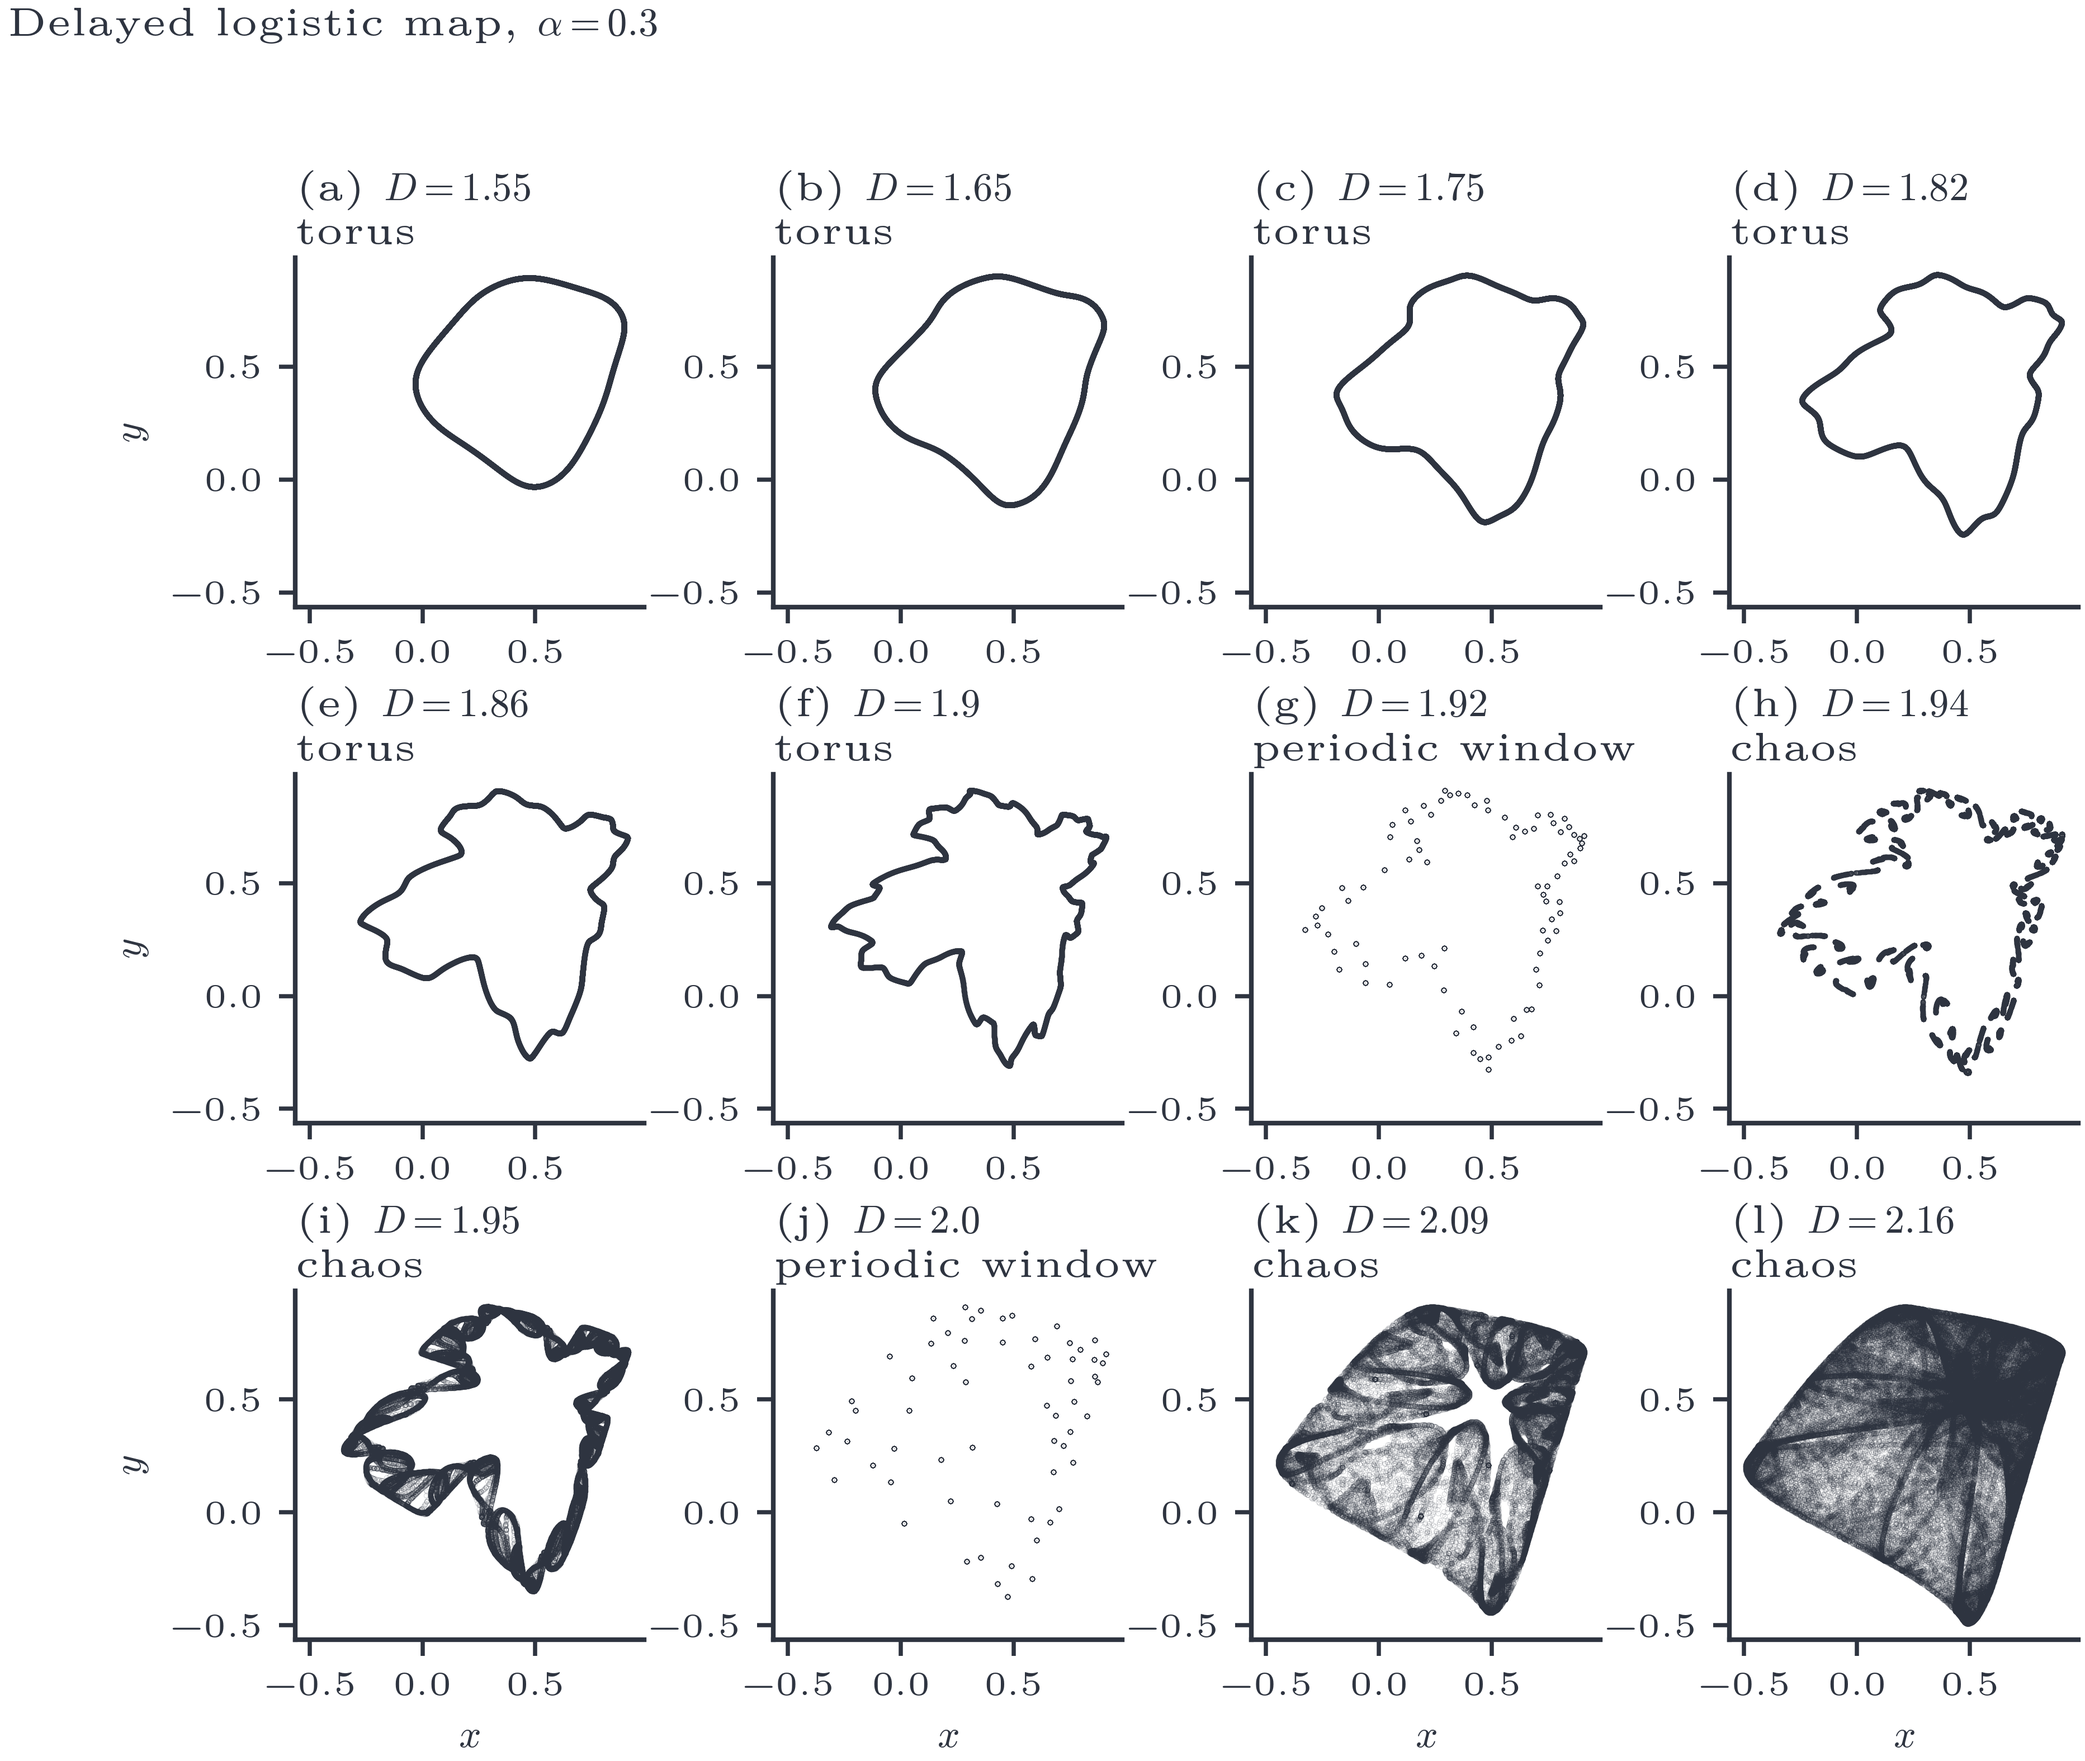
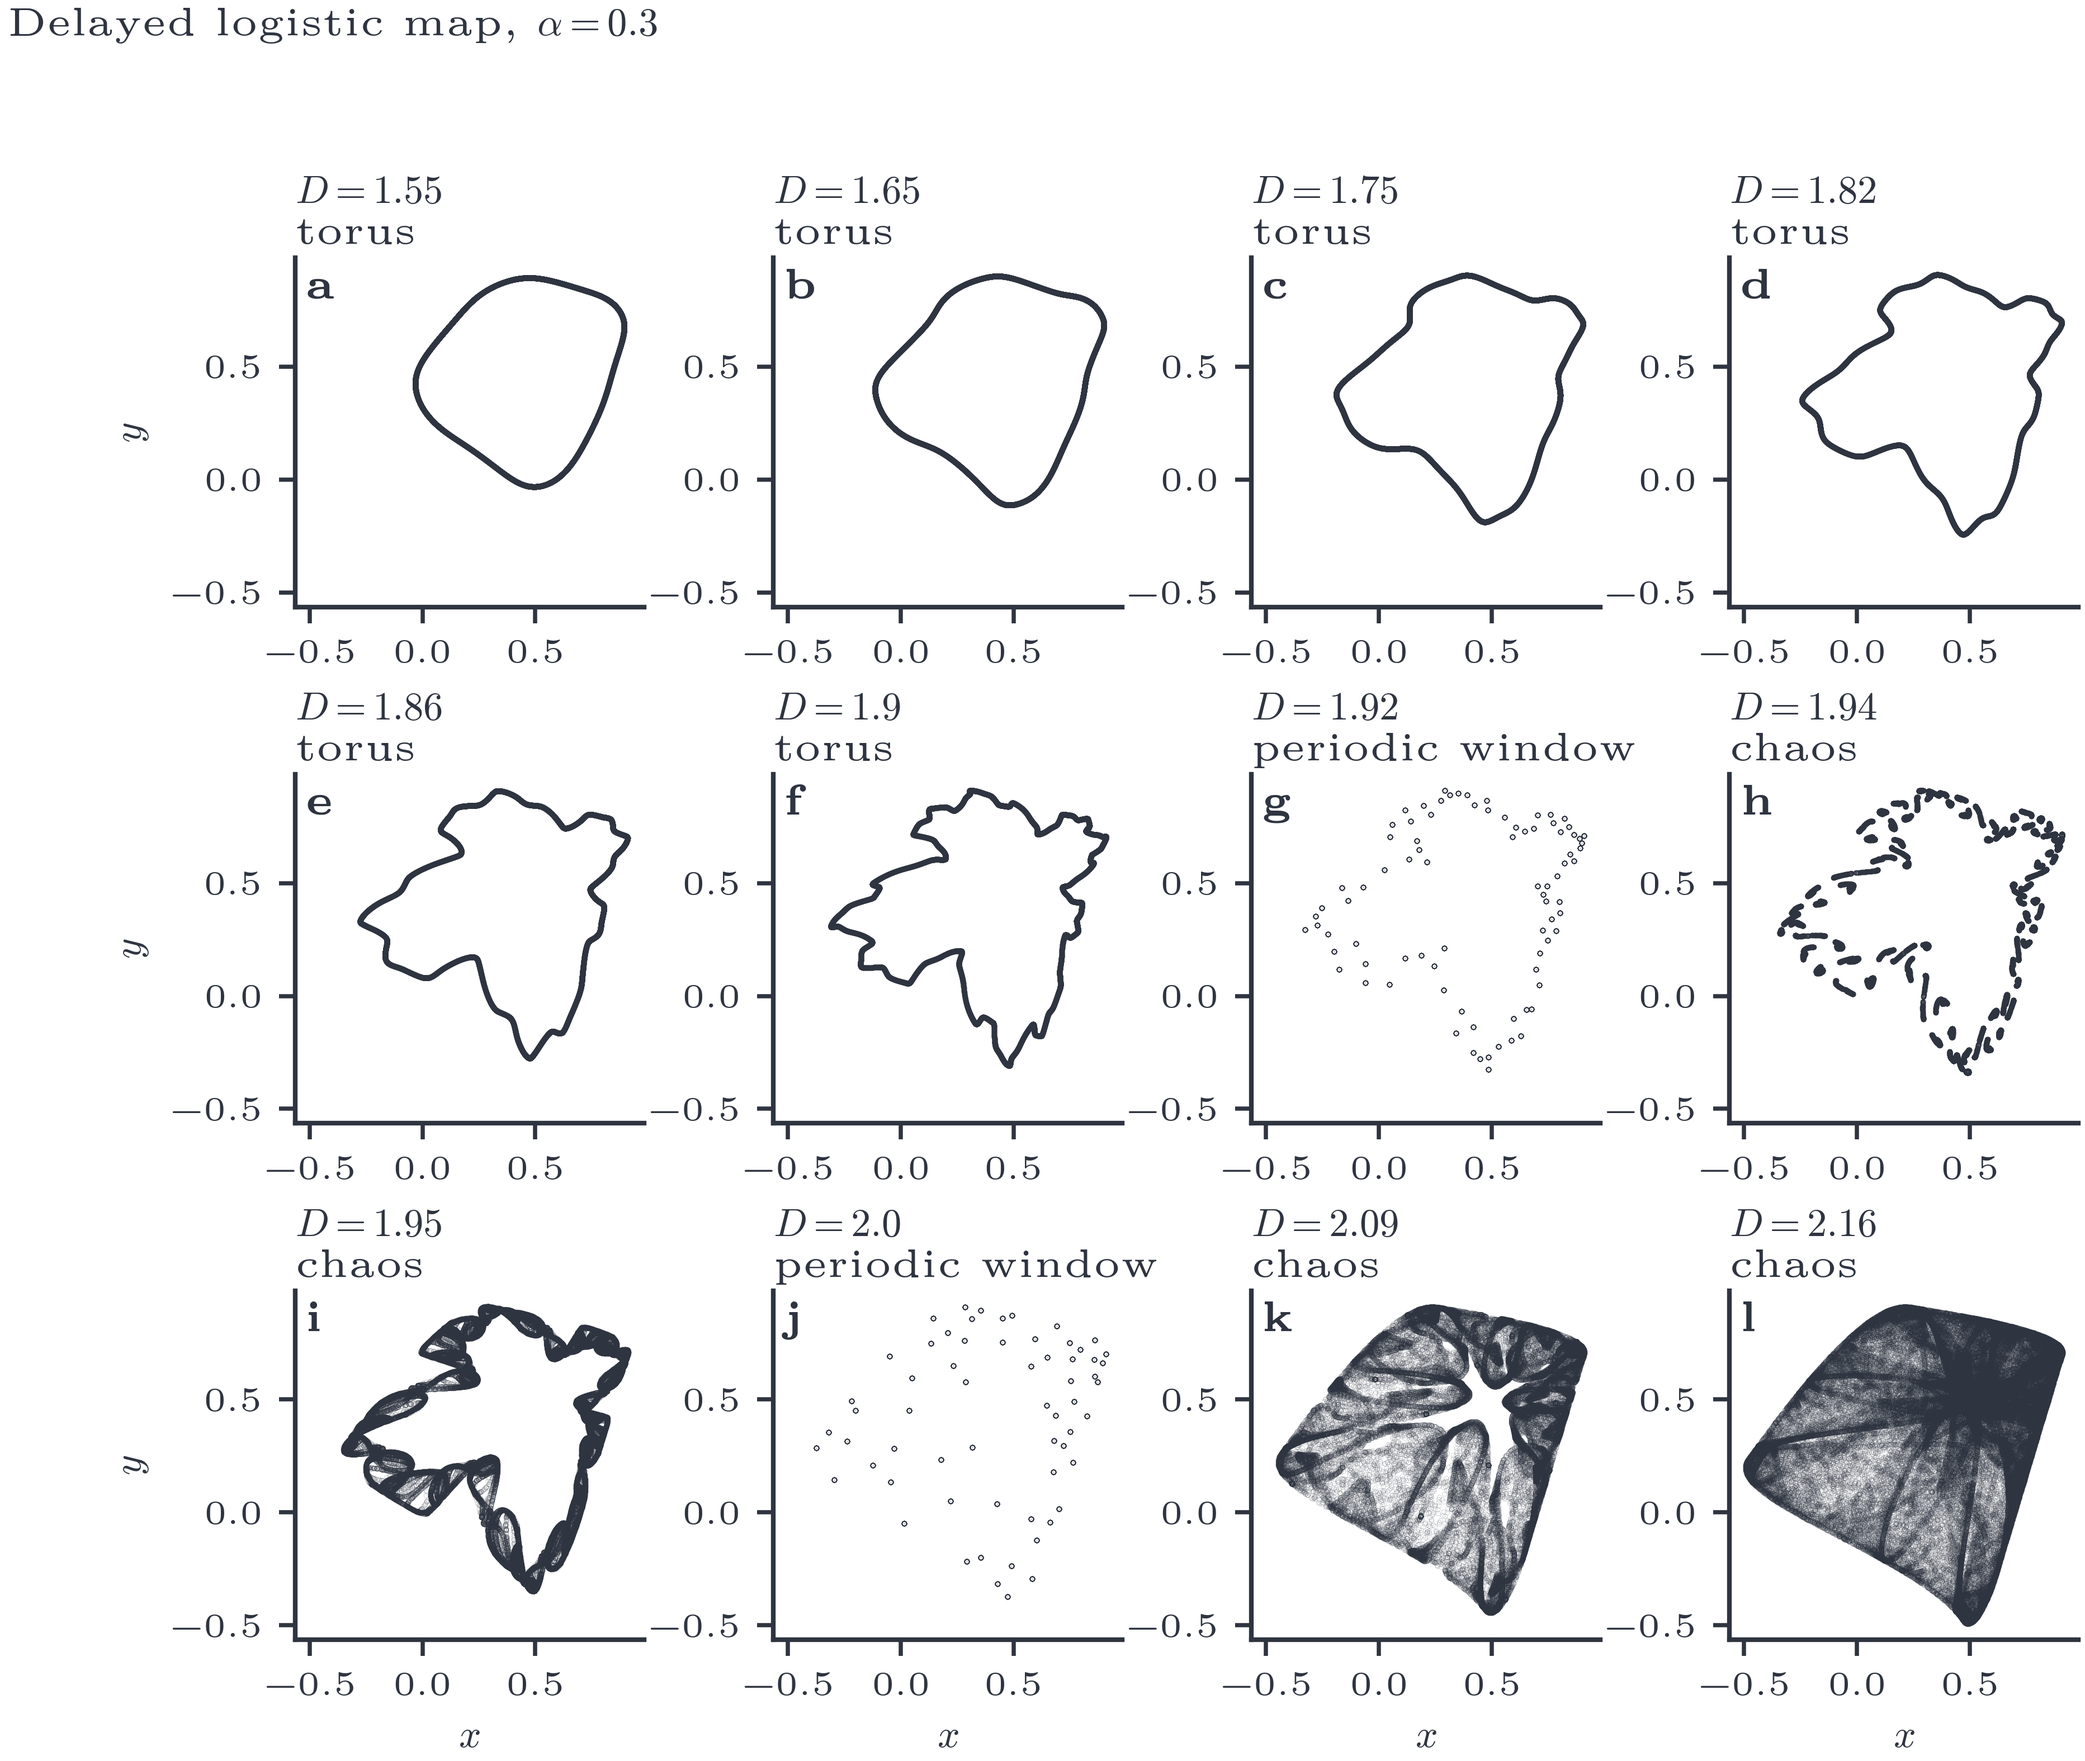
style(sec05): apply figure grammar — lyap colours, panel labels, grey guides
delayed_logistic.py: lambda_1->ink lambda_2->vermilion via lyap_color (was blue);
zero line + D_c guide -> grey reference_line; bold (a)-(l) and (a)-(h) panel
labels via panel_label on the attractor/locking grids. Presentation only.

diff --git a/src/dynachaos/maps/delayed_logistic.py b/src/dynachaos/maps/delayed_logistic.py
@@ -191,7 +191,7 @@ def plot_attractors(data):
     """Plot the twelve attractor portraits in a 3x4 grid."""
     import matplotlib.pyplot as plt
 
-    from dynachaos.utils.style import COLORS, apply_axes_polish, figure_spec, setup
+    from dynachaos.utils.style import COLORS, apply_axes_polish, figure_spec, panel_label, setup
 
     setup()
 
@@ -224,7 +224,8 @@ def plot_attractors(data):
         x = data[f"D_{D:.2f}_x"]
         y = data[f"D_{D:.2f}_y"]
         ax.scatter(x, y, s=0.012, c=COLORS["black"], alpha=0.22, rasterized=True)
-        ax.set_title(f"({panel_labels[idx]}) $D={D}$\n{labels_short[idx]}", loc="left")
+        panel_label(ax, panel_labels[idx])
+        ax.set_title(f"$D={D}$\n{labels_short[idx]}", loc="left")
         if idx // 4 == 2:
             ax.set_xlabel("$x$")
         if idx % 4 == 0:
@@ -258,6 +259,8 @@ def plot_lyapunov(data):
         apply_axes_polish,
         figure_spec,
         finalize_legend,
+        lyap_color,
+        reference_line,
         setup,
     )
 
@@ -268,9 +271,9 @@ def plot_lyapunov(data):
 
     spec = figure_spec("double")
     fig, ax = plt.subplots(figsize=spec.figsize)
-    ax.plot(D, spectra[:, 0], color=COLORS["black"], linestyle="-", lw=0.8, label=r"$\lambda_1$")
-    ax.plot(D, spectra[:, 1], color=COLORS["blue"], linestyle="-", lw=0.8, label=r"$\lambda_2$")
-    ax.axhline(0, color=COLORS["red"], lw=0.7, ls="--")
+    ax.plot(D, spectra[:, 0], color=lyap_color(0), linestyle="-", lw=0.8, label=r"$\lambda_1$")
+    ax.plot(D, spectra[:, 1], color=lyap_color(1), linestyle="-", lw=0.8, label=r"$\lambda_2$")
+    reference_line(ax, 0, axis="y", lw=0.7)
     ax.set_xlabel(r"$D$")
     ax.set_ylabel(r"Lyapunov exponent")
     ax.set_title(r"Delayed logistic map, $\alpha = 0.3$", loc="left")
@@ -280,7 +283,7 @@ def plot_lyapunov(data):
     # Mark key transitions
     alpha = 0.3
     D_hopf = (3.0 - 2.0 * alpha) / (4.0 * (1.0 - alpha) ** 2)  # approx 1.2245
-    ax.axvline(D_hopf, color=COLORS["grey"], lw=0.5, ls=":", alpha=0.7)
+    reference_line(ax, D_hopf, axis="x", lw=0.5, ls=":", alpha=0.7)
     ax.text(
         D_hopf + 0.02,
         ax.get_ylim()[1] * 0.8,
@@ -330,7 +333,7 @@ def plot_locking_sequence(data):
     """Plot 2x4 grid of locking-to-chaos transition."""
     import matplotlib.pyplot as plt
 
-    from dynachaos.utils.style import COLORS, apply_axes_polish, figure_spec, setup
+    from dynachaos.utils.style import COLORS, apply_axes_polish, figure_spec, panel_label, setup
 
     setup()
 
@@ -361,7 +364,8 @@ def plot_locking_sequence(data):
         x = data[f"D_{D:.3f}_x"]
         y = data[f"D_{D:.3f}_y"]
         ax.scatter(x, y, s=0.012, c=COLORS["black"], alpha=0.22, rasterized=True)
-        ax.set_title(f"({panel_labels[idx]}) $D={D}$\n{labels[idx]}", loc="left")
+        panel_label(ax, panel_labels[idx])
+        ax.set_title(f"$D={D}$\n{labels[idx]}", loc="left")
         if idx // 4 == 1:
             ax.set_xlabel("$x$")
         if idx % 4 == 0:
